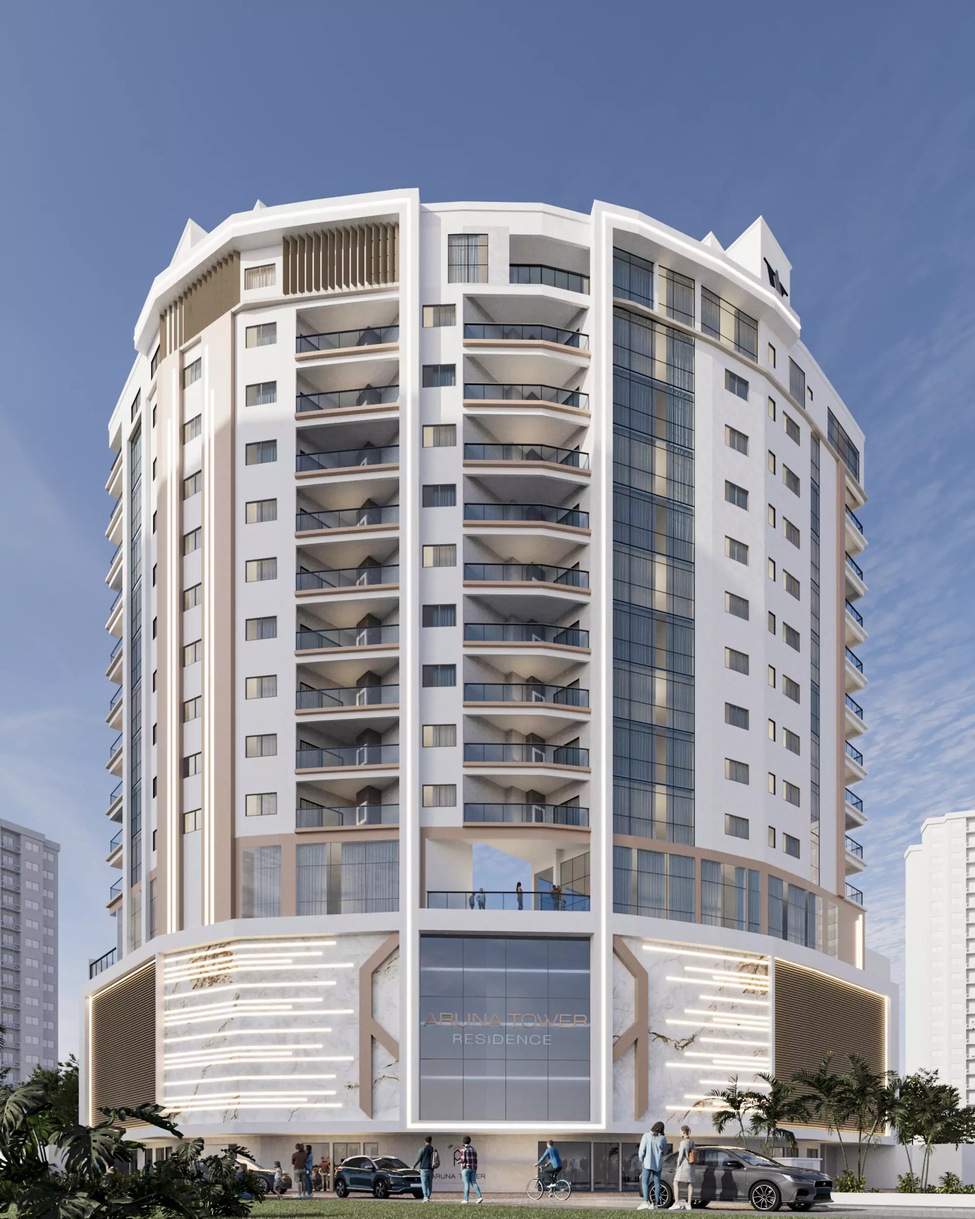
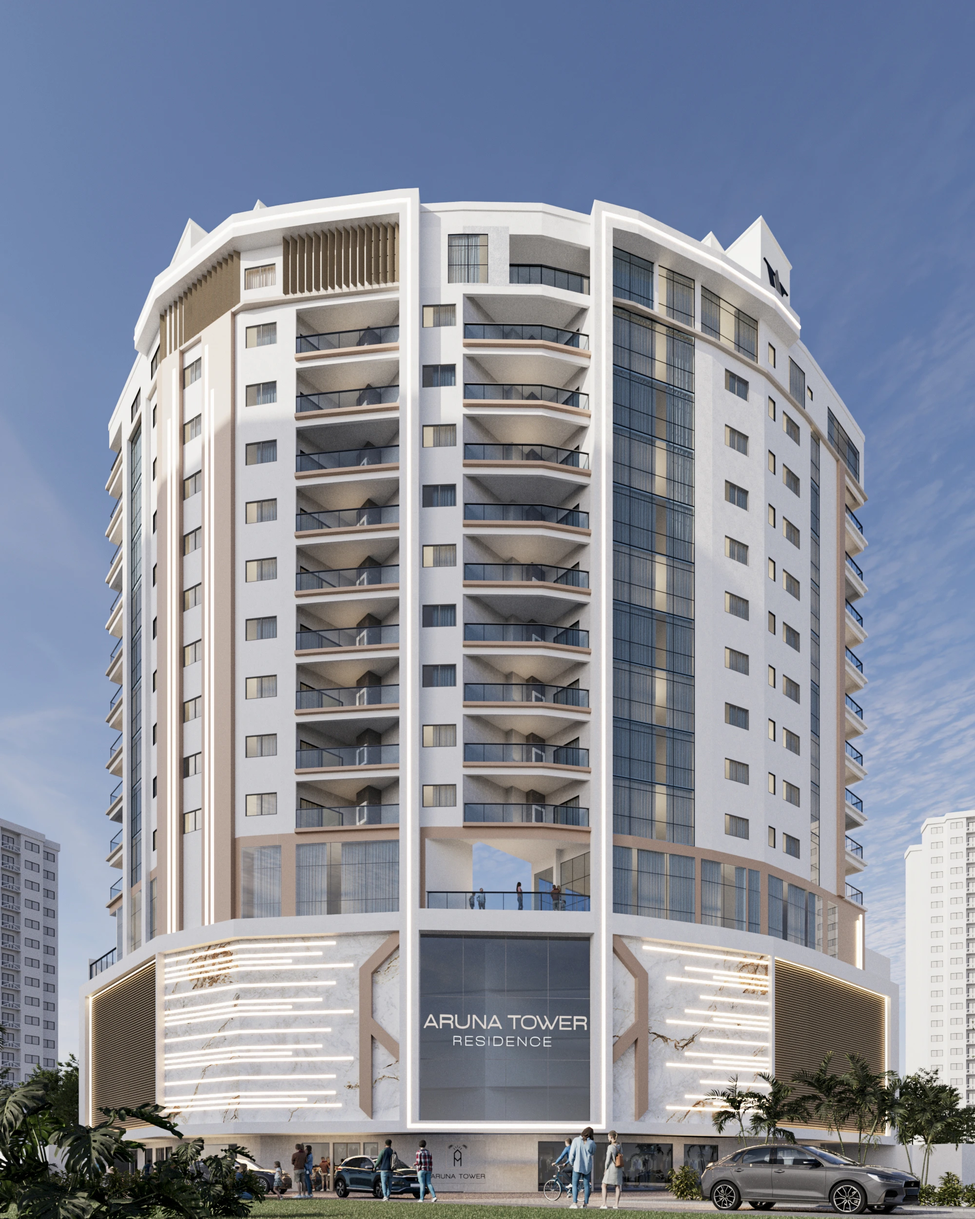
blog developed

diff --git a/src/app/blog/[postslug]/page.tsx b/src/app/blog/[postslug]/page.tsx
@@ -1,0 +1,44 @@
+"use client";
+
+import './styles.css';
+
+import { useParams } from 'next/navigation';
+
+import { postType, posts } from '../posts.ts';
+import Image from 'next/image';
+import FormSection from '~/app/components/Form Section/index.tsx';
+
+export default function Post() {
+
+    const errorPost = {
+        id: 0,
+        title: "Ocorreu um erro :(",
+        slug: "error-post",
+        body: "Contate a administração do sistema.",
+        image: "imagedummy",
+        createdAt: "10/03/2025"
+    }
+
+
+    const { postslug } = useParams<{ postslug: string }>();
+    const post: postType = posts.find(p => p.slug === postslug) ?? errorPost;
+
+    return (
+        <section className="blog-post">
+            <div className="blog-post-content">
+                <a href="/blog/">← Voltar ao blog</a>
+                <div className="blog-post-image">
+                    <Image src={post.image} alt={post.title} fill />
+                </div>
+                <div className="blog-post-headline">
+                    <h1>{post.title}</h1>
+                    <span>Postado em {post.createdAt}</span>
+                </div>
+                <div className="blog-post-body">
+                    {post.body}
+                </div>
+            </div>
+            <FormSection/>
+        </section>
+    )
+}

diff --git a/src/app/components/Header/index.tsx b/src/app/components/Header/index.tsx
@@ -92,8 +92,8 @@ export default function Header() {
                         </div>
 
 
-                        <a inert={pathname === "/blog"} href="/blog" className="hover-underline-animation">
-                            <span className={pathname === "/blog" ? "active" : ""}>Blog</span>
+                        <a inert={pathname.includes("blog")} href="/blog" className="hover-underline-animation">
+                            <span className={pathname.includes("blog") ? "active" : ""}>Blog</span>
                         </a>
                     </nav>
 
@@ -121,8 +121,8 @@ export default function Header() {
                             </div>
 
 
-                            <a inert={pathname === "/blog"} href="/blog" className="hover-underline-animation">
-                                <span className={pathname === "/blog" ? "active" : ""}>Blog</span>
+                            <a inert={pathname.includes("blog")} href="/blog" className="hover-underline-animation">
+                                <span className={pathname.includes("blog") ? "active" : ""}>Blog</span>
                             </a>
                         </nav>
                     </Modal>

diff --git a/src/app/blog/[postslug]/styles.css b/src/app/blog/[postslug]/styles.css
@@ -1,0 +1,49 @@
+section.blog-post {
+    padding:11rem 0;
+    background:linear-gradient(to bottom, var(--blue) 15%, #fff 15%);
+}
+
+div.blog-post-content {
+    width:80%;
+    margin:auto;
+    margin-bottom:20rem;
+}
+div.blog-post-content > a {
+    text-decoration: none;
+    color:hsl(0, 0%, 60%);
+    line-height: 2em;
+    font-style:italic;
+}
+div.blog-post-content > a:hover {
+    cursor:pointer;
+    color:hsl(0, 0%, 80%);
+    text-decoration:underline;
+}
+div.blog-post-headline > h1 {
+    font-size:3.5rem;
+    background:linear-gradient(90deg, var(--blue), hsl(206, 100%, 30%));
+    background-clip: text;
+    margin:0;    
+    color: transparent;
+    margin-top:1rem;
+}
+div.blog-post-headline > span {
+    color:hsl(0, 0%, 52%);
+    font-style:italic;
+}
+div.blog-post-image {
+    position:relative;
+    height:100%;
+    width:100%;
+    max-width:512px;
+    aspect-ratio:16/9;
+}
+div.blog-post-image > img {
+    border-radius:.25rem;
+    border:1px solid #fff;
+    box-shadow: 0px 0px 5px 0px rgba(0,0,0,0.75);
+}
+div.blog-post-body {
+    margin-top:4rem;
+    font-size:1.125rem;
+}

diff --git a/src/app/blog/page.tsx b/src/app/blog/page.tsx
@@ -3,12 +3,25 @@
 import FormSection from '../components/Form Section';
 import WppButton from '../components/Wpp Button';
 import './styles.css';
+import './mobile.css';
+
+import { posts } from './posts.ts';
+import Image from 'next/image';
 
 export default function Blog () {
     return (
         <section className="blog">
             <WppButton/>
-            <h1>.</h1>
+            <div className="blog-posts">
+                {posts.map(post => <a href={"/blog/" + post.slug} key={post.id} className="blog-post">
+                    <div className="post-image">
+                        <Image src={post.image} alt={post.title} fill/>
+                    </div>                    
+                    <h4>{post.title}</h4>
+                    <span>Postado em {post.createdAt}</span>
+                </a>)}
+            </div>
+
             <FormSection/>
         </section>
     )

diff --git a/src/app/blog/styles.css b/src/app/blog/styles.css
@@ -1,5 +1,45 @@
 section.blog {
-    padding-top:11rem;
-    background-color:var(--blue);
-    color:#fff;
+    background-color:#fff;
+    color:var(--blue);
+}
+
+a.blog-post {
+    display:flex;
+    flex-direction:column;
+    width:fit-content;
+    transition:200ms;
+    text-decoration:none;
+    gap:.5rem;
+}
+.blog-post:hover {
+    transition:200ms;
+    transform:scale(1.025)
+}
+.blog-post h4 {
+    margin:0;
+    line-height:.6em;
+    width:30ch;
+    font-size:1.25rem;
+    color:var(--blue);
+    margin-top:.5rem;
+}
+.blog-post img {
+    border-radius:.25rem;
+}
+div.blog-posts {
+    display:flex;
+    gap:4rem;
+    width:80%;
+    margin:auto;
+    padding:11rem 0;
+    flex-wrap:wrap;
+}
+div.post-image {
+    position:relative;
+    width:384px;
+    height:216px;
+}
+.blog-post span {
+    text-decoration:none;
+    color:hsl(0, 0%, 52%);
 }

diff --git a/src/app/blog/posts.ts b/src/app/blog/posts.ts
@@ -1,0 +1,29 @@
+const dummyImage = "/assets/blog-dummy-image.webp";
+
+export type postType = {
+    id:number,
+    slug:string,
+    title:string,
+    body:string,
+    image:string,
+    createdAt:string
+}
+
+export const posts: postType[] = [
+    {
+        id:1,
+        slug:"post-inicial",
+        title:"Bem-vindos ao blog da AVicente!",
+        body:"Esta é a primeira postagem do blog da AVicente! Aqui traremos novidades a respeito da construtora :)",
+        image:dummyImage,
+        createdAt:"10/03/2025"
+    },
+    // {
+    //     id:2,
+    //     slug:"post-exemplo",
+    //     title:"This is a dummy post, created for development purposes",
+    //     body:"This is a dummy post, created for development purposes",
+    //     image:dummyImage,
+    //     createdAt:"10/03/2025"
+    // }
+]

diff --git a/src/app/empreendimentos/em-construcao/page.tsx b/src/app/empreendimentos/em-construcao/page.tsx
@@ -2,7 +2,7 @@ import Image from 'next/image';
 import './styles.css';
 import './mobile.css';
 
-import arunaFoto from '../../../../public/assets/aruna-fachada.webp';
+import arunaFoto from '../../../../public/assets/aruna-fachada-noturno.webp';
 import arunaLogo from '../../../../public/assets/aruna-logo.svg';
 
 import vicenteFoto from '../../../../public/assets/vicente.webp';

diff --git a/src/app/blog/mobile.css b/src/app/blog/mobile.css
@@ -1,0 +1,15 @@
+@media (max-width:1140px) {
+    div.blog-posts {
+        justify-content:center;
+    }
+}
+
+@media (max-width:450px) {
+    div.post-image {
+        width:256px;
+        height:144px;
+    }
+    .blog-post h4 {
+        width:20ch;
+    }
+}

diff --git a/src/app/components/Debug/index.tsx b/src/app/components/Debug/index.tsx
@@ -1,6 +1,8 @@
 import './styles.css';
 
 export default function Debug() {
+
+
     return(
         <button className="debug">Debug</button>
     )
